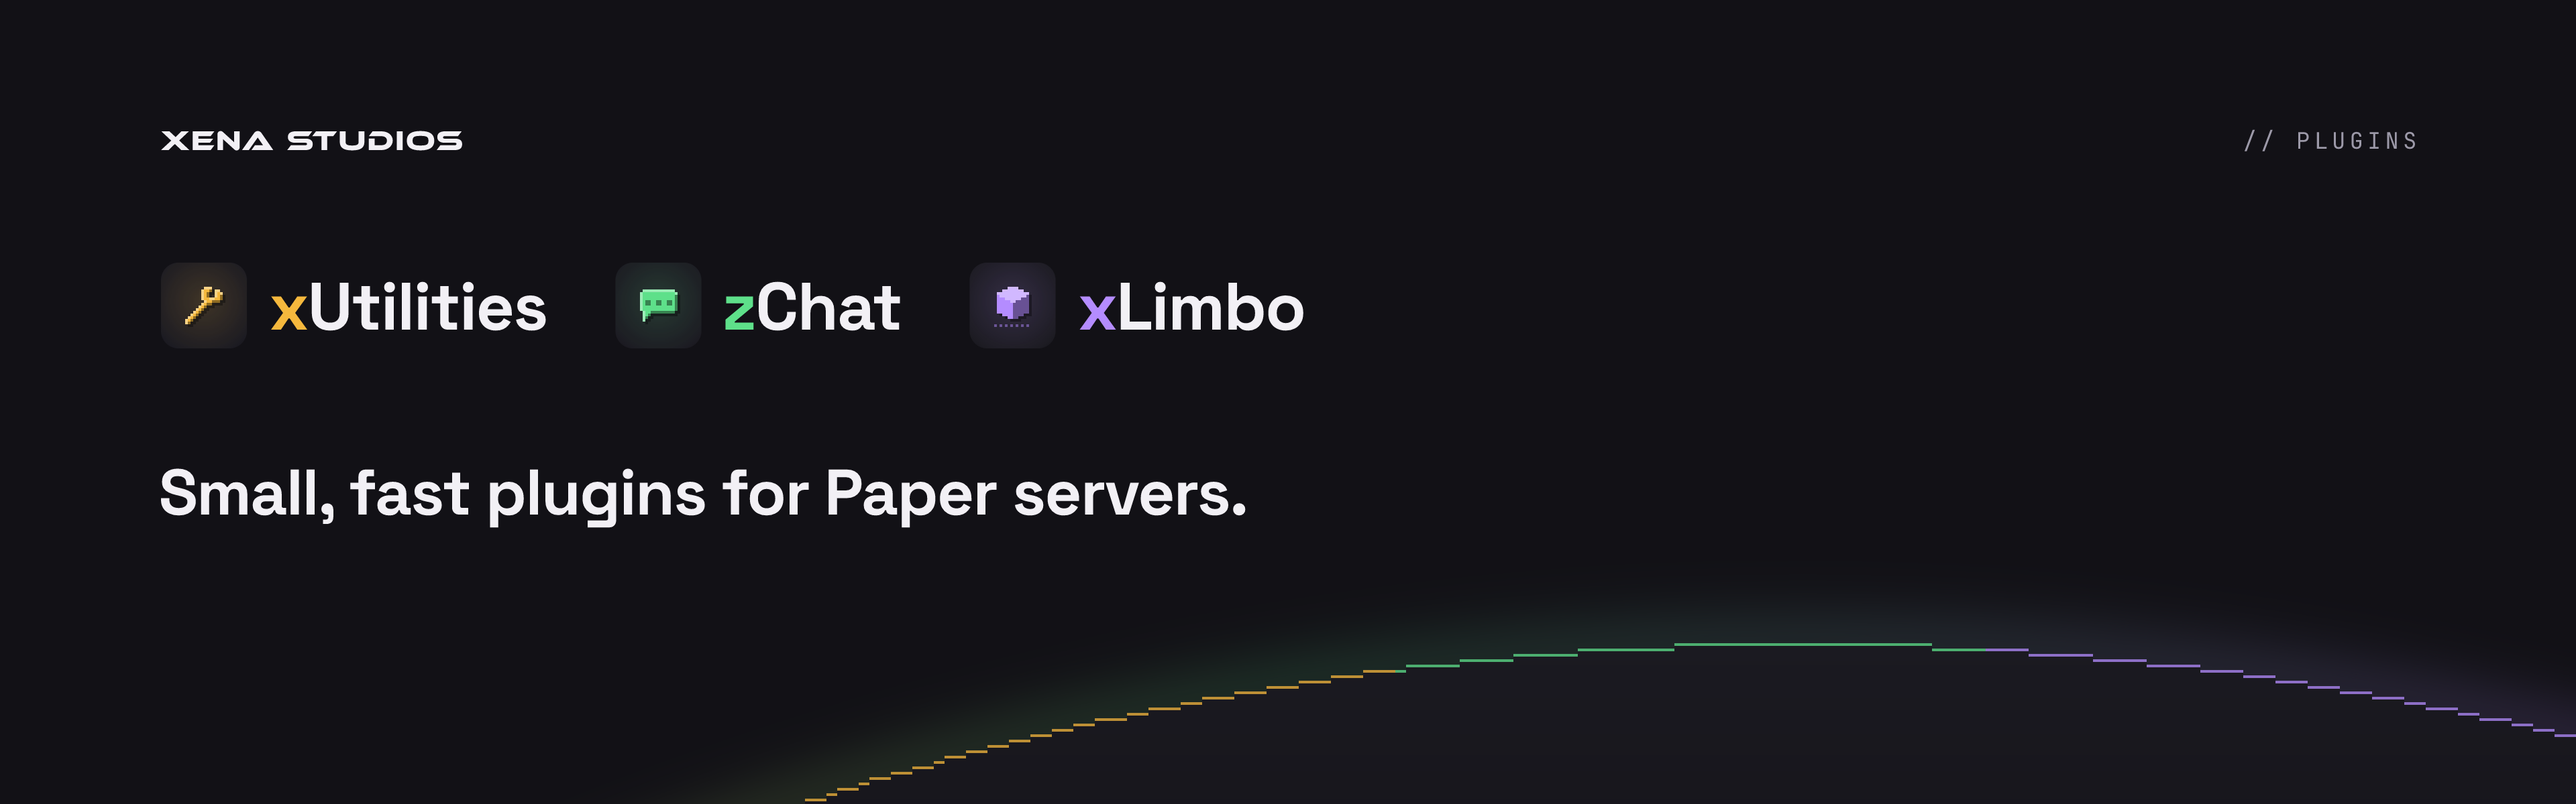
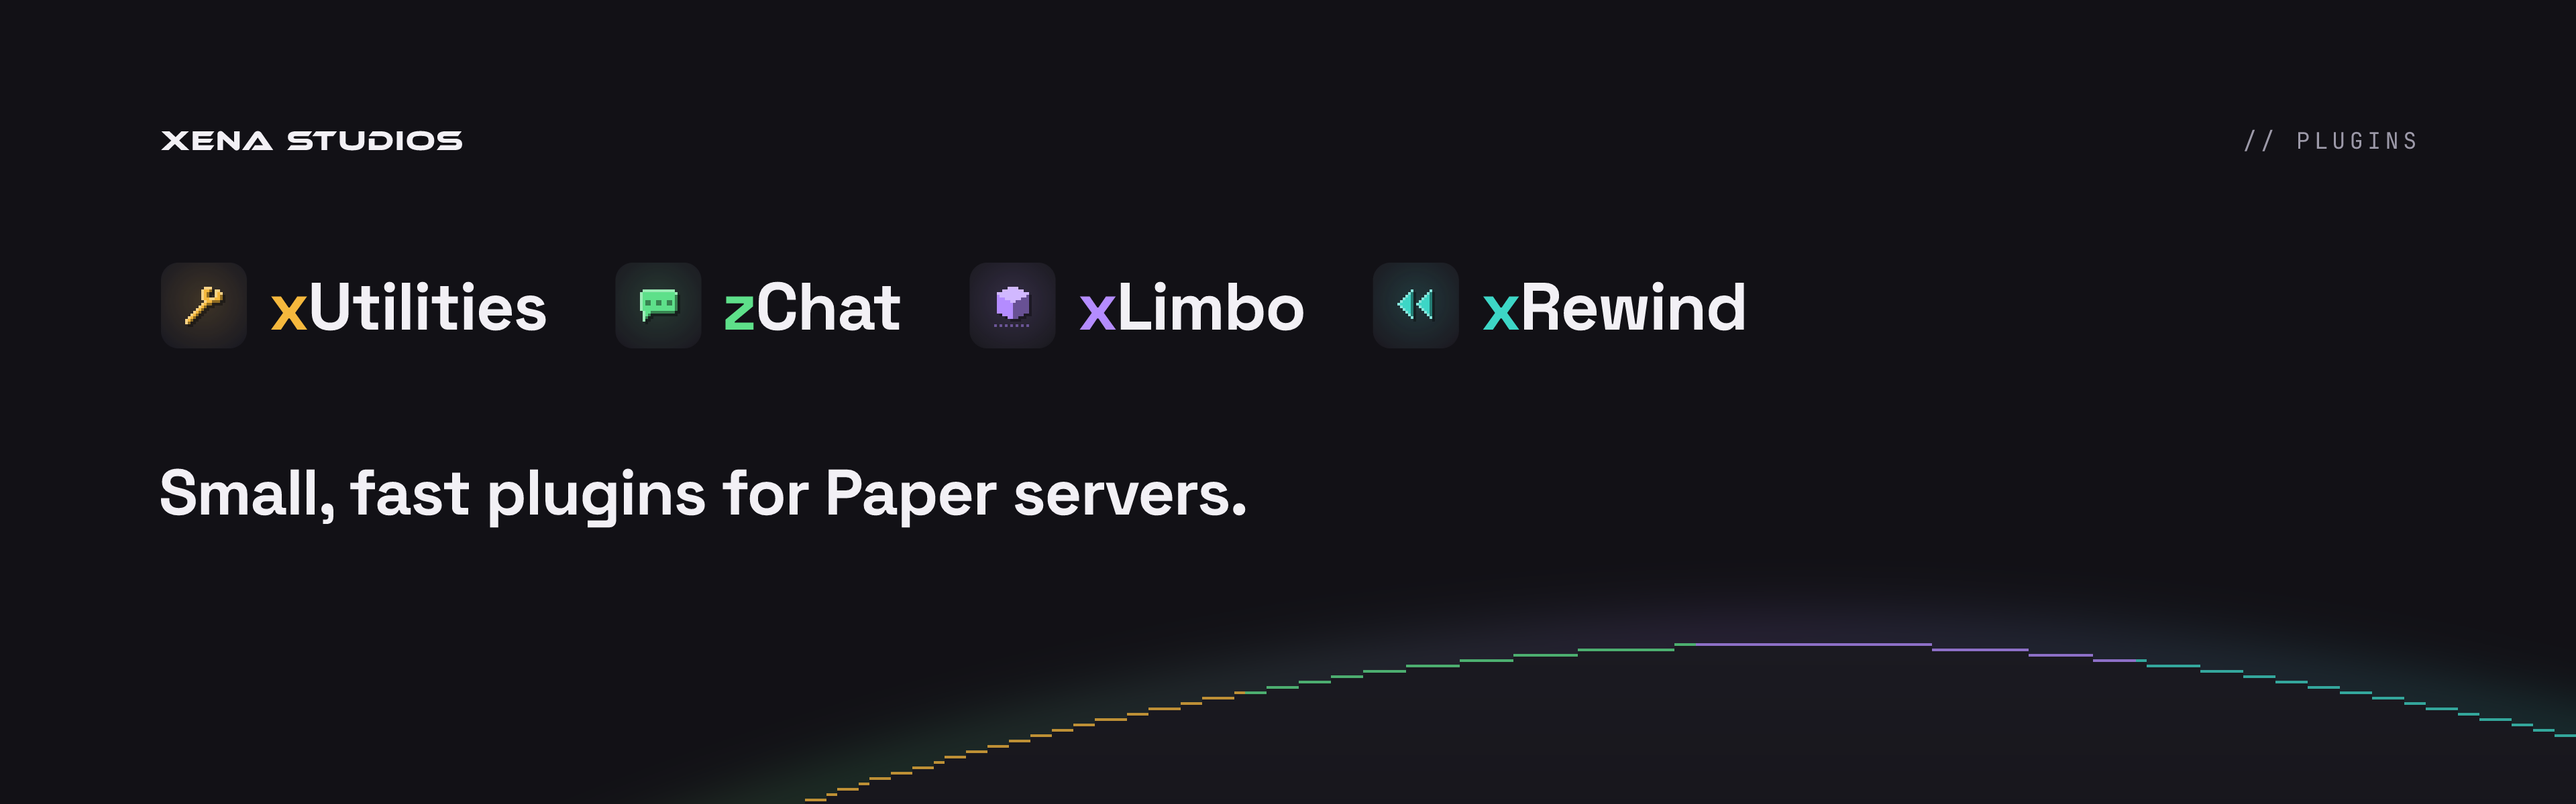
release: xRewind 1.0.0

diff --git a/docs/src/styles/theme.css b/docs/src/styles/theme.css
@@ -282,6 +282,7 @@ starlight-toc a[aria-current="true"] {
 .plugin-list a[href="/xutilities/"]:hover { color: #F5B83D; }
 .plugin-list a[href="/zchat/"]:hover { color: #5EE08A; }
 .plugin-list a[href="/xlimbo/"]:hover { color: #B48CFF; }
+.plugin-list a[href="/xrewind/"]:hover { color: #3DD6C6; }
 
 .more-label {
   margin-top: 3rem !important;

diff --git a/xrewind/CHANGELOG.md b/xrewind/CHANGELOG.md
@@ -1,5 +1,33 @@
 # xRewind changelog
 
-## Unreleased
+## 1.0.0
 
-Not released yet. 1.0 will log block changes, containers, kills and more, look them up, and roll them back, with every feature free.
+The first release. Drop the jar in and start the server: it logs to SQLite in its own folder, with nothing to set up. Coming from CoreProtect? Run `/xr import coreprotect` to bring your history.
+
+### Logging
+
+- Blocks placed and broken, with what they held (a chest's items, a sign's text), and the torches, signs and rails that fall off with them.
+- Explosions (TNT is put down to whoever lit it), fire, buckets and liquids that destroy something, pistons, and mobs that change blocks (endermen, withers, falling sand).
+- Items put in and taken out of containers, kills, sign text, and joins and quits.
+- Off unless you turn them on: hopper transfers, door and lever clicks, leaf decay, chat and commands.
+- Each kind is a switch under `log`, and one that's off isn't even listened for. `excluded-worlds` leaves worlds out.
+- Logging costs about 40 nanoseconds per change on the game's threads: everything else happens on one background thread, in batches.
+
+### Looking up
+
+- `/xr inspect`: click a block to see its history, or place one to see what was there.
+- `/xr lookup` with CoreProtect's parameters: `u:` `t:` `r:` `a:` `i:` `e:` `w:` and `#count`. `/xr page` and `/xr near`.
+
+### Rolling back
+
+- `/xr rollback` and `/xr restore` with the same parameters, `#preview` to see the result first, and `/xr undo`.
+- Blocks come back with what they held, and items taken from containers are put back.
+- Blocks are set a few milliseconds per tick, chunk by chunk (region by region on Folia), so even a big rollback doesn't freeze the server.
+- A rollback needs `t:`, covers 10 blocks around you without `r:`, and past 100 blocks needs `xrewind.rollback.global`.
+
+### Keeping it tidy
+
+- Automatic purges, free: history older than 30 days is deleted once a day (`purge.keep-days`; 0 keeps everything), and `/xr purge`.
+- SQLite by default, MySQL or MariaDB for networks. No driver is bundled: Paper and Folia include them.
+- `/xr import coreprotect` reads CoreProtect's database (SQLite or MySQL) and imports blocks, kills, containers, sessions, signs, chat and commands.
+- `/xr status` shows where the history goes and whether logging is keeping up.

diff --git a/README.md b/README.md
@@ -1,4 +1,4 @@
-![Xena Studios plugins. The xUtilities, zChat and xLimbo icons and names over a stepped horizon in their three accents, with "Small, fast plugins for Paper servers."](.github/assets/banner.png)
+![Xena Studios plugins. The xUtilities, zChat, xLimbo and xRewind icons and names over a stepped horizon in their four accents, with "Small, fast plugins for Paper servers."](.github/assets/banner.png)
 
 **Small, fast plugins for Paper servers.**
 
@@ -9,8 +9,9 @@ By [Xena Studios](https://xenastudios.co). Each does one job, costs next to noth
 | <img src="docs/src/assets/plugins/xutilities.svg" width="40" alt=""> | **[xUtilities](xutilities)** | Every command you need. None you don't. | [Docs](https://docs.xenastudios.co/xutilities/) · [Modrinth](https://modrinth.com/plugin/xutilities) |
 | <img src="docs/src/assets/plugins/zchat.svg" width="40" alt=""> | **[zChat](zchat)** | Format your chat. Keep it clean. | [Docs](https://docs.xenastudios.co/zchat/) · [Modrinth](https://modrinth.com/plugin/zchat) |
 | <img src="docs/src/assets/plugins/xlimbo.svg" width="40" alt=""> | **[xLimbo](xlimbo)** | Never drop a player again. | [Docs](https://docs.xenastudios.co/xlimbo/) · [Modrinth](https://modrinth.com/plugin/xlimbo) |
+| <img src="docs/src/assets/plugins/xrewind.svg" width="40" alt=""> | **[xRewind](xrewind)** | Every change, logged. Any of it, undone. | [Docs](https://docs.xenastudios.co/xrewind/) · [Modrinth](https://modrinth.com/plugin/xrewind) |
 
-All three need Paper 1.21.11+ and Java 21+. xUtilities and zChat also run on Folia. Get them on [Modrinth](https://modrinth.com/organization/xena-studios); the [docs](https://docs.xenastudios.co) cover setup, commands, permissions and config.
+All four need Paper 1.21.11+ and Java 21+. xUtilities, zChat and xRewind also run on Folia. Get them on [Modrinth](https://modrinth.com/organization/xena-studios); the [docs](https://docs.xenastudios.co) cover setup, commands, permissions and config.
 
 ## Building
 

diff --git a/xrewind/README.md b/xrewind/README.md
@@ -2,12 +2,14 @@
 
 **Every change, logged. Any of it, undone.**
 
-xRewind is a block logger with rollback for Paper and Folia: who placed, broke or took what, where and when, and a way to undo it. **It's being built and isn't released yet;** the plan is [#20](https://github.com/xena-studios/plugins/issues/20).
+xRewind is a block logger with rollback for Paper and Folia: who placed, broke or took what, where and when, and a way to undo it.
 
 - **Every feature free.** No early-access builds, nothing behind a Patreon.
 - **New Minecraft versions the same week.** Paper's API only, no server internals, so an update rarely breaks it.
 - **You won't feel it running.** Nothing touches the database on a game thread: changes are queued as a few numbers and written in batches.
-- **Easy to switch to.** CoreProtect's command syntax, and its history imported.
+- **Easy to switch to.** CoreProtect's command syntax, and its history imported with `/xr import coreprotect`.
+
+**[Download on Modrinth](https://modrinth.com/plugin/xrewind)** · [Docs](https://docs.xenastudios.co/xrewind/) · [Commands](https://docs.xenastudios.co/xrewind/commands/) · [Switching from CoreProtect](https://docs.xenastudios.co/xrewind/switching/) · [Changelog](CHANGELOG.md)
 
 Needs Paper 1.21.11 or newer (or Purpur, or Folia) and Java 21 or newer. Uses SQLite out of the box, or MySQL/MariaDB.
 
@@ -26,5 +28,8 @@ src/main/java/co/xenastudios/xrewind/
   storage/         the database: its tables, and opening it off the server's threads
   listen/          the listeners, one module per kind of change, each on only when it's logged
   log/             the queue listeners hand changes to, and the one thread that writes them
+  query/           lookups, the inspector, and CoreProtect-style parameters
+  rollback/        working out a rollback, and applying it a few milliseconds per tick
+  maintain/        purges, and the CoreProtect import
   command/         /xrewind's subcommands
 ```

diff --git a/docs/src/content/docs/start/privacy.md b/docs/src/content/docs/start/privacy.md
@@ -22,7 +22,9 @@ That's the plugin and its version, the platform (`paper`, or `folia` on Folia) a
 
 ## bStats
 
-xUtilities 2, zChat 3 and xLimbo 2 send **[bStats](https://bstats.org)**, anonymous usage statistics shared by thousands of plugins, on by default: a random server ID, player count, server software and version, Minecraft, Java and plugin versions, operating system, CPU cores, online mode, and country (worked out by bStats from the IP address, which bStats doesn't store). Turn it off for every plugin at once in `plugins/bStats/config.yml`. (zChat 1.x sent bStats too; zChat 2 and xLimbo 1 didn't.) The numbers are public: [xUtilities](https://bstats.org/plugin/bukkit/XenaUtilities/34866), [zChat](https://bstats.org/plugin/bukkit/zChat/21533) and [xLimbo](https://bstats.org/plugin/bukkit/xLimbo/34867) on bStats.
+xUtilities 2, zChat 3, xLimbo 2 and xRewind send **[bStats](https://bstats.org)**, anonymous usage statistics shared by thousands of plugins, on by default: a random server ID, player count, server software and version, Minecraft, Java and plugin versions, operating system, CPU cores, online mode, and country (worked out by bStats from the IP address, which bStats doesn't store). Turn it off for every plugin at once in `plugins/bStats/config.yml`. (zChat 1.x sent bStats too; zChat 2 and xLimbo 1 didn't.) The numbers are public: [xUtilities](https://bstats.org/plugin/bukkit/XenaUtilities/34866), [zChat](https://bstats.org/plugin/bukkit/zChat/21533), [xLimbo](https://bstats.org/plugin/bukkit/xLimbo/34867) and [xRewind](https://bstats.org/plugin/bukkit/xRewind/35410) on bStats.
+
+xRewind keeps what it logs (who changed which blocks, and when, where they joined and quit) in your own database, and nothing of it leaves your server. Chat and command logging are off unless you turn them on, and history older than 30 days is deleted unless you keep it longer (`purge.keep-days`).
 
 ## Inside your network
 

diff --git a/xrewind/modrinth.md b/xrewind/modrinth.md
@@ -4,9 +4,7 @@
 
 Someone griefed spawn. Someone emptied the shared chest. Someone says they didn't. **xRewind shows you who placed, broke or took what, where and when, and puts it back.**
 
-> **Being built.** xRewind isn't released yet. Follow it on [GitHub](https://github.com/xena-studios/plugins/issues/20) and the first release will land here.
-
-**[Read the docs](https://docs.xenastudios.co/xrewind/)** · **[The plan](https://github.com/xena-studios/plugins/issues/20)** · **[Source code](https://github.com/xena-studios/plugins)**
+**[Read the docs](https://docs.xenastudios.co/xrewind/)** · **[Switching from CoreProtect](https://docs.xenastudios.co/xrewind/switching/)** · **[Report a bug](https://github.com/xena-studios/plugins/issues/new/choose)**
 
 ---
 
@@ -26,7 +24,11 @@ Blocks placed and broken, and what falls off with them · explosions, traced to 
 
 ## Commands
 
-`/xr inspect` · `/xr lookup` · `/xr rollback` · `/xr restore` · `/xr undo` · `/xr purge`, with CoreProtect's parameters: `u:` `t:` `r:` `a:` `i:` `e:` and `#preview`.
+`/xr inspect` · `/xr lookup` · `/xr rollback` · `/xr restore` · `/xr undo` · `/xr purge` · `/xr import coreprotect`, with CoreProtect's parameters: `u:` `t:` `r:` `a:` `i:` `e:` and `#preview`.
+
+## Coming from CoreProtect?
+
+Install xRewind next to it, run `/xr import coreprotect`, and your history comes across: blocks, kills, containers, sessions, signs, chat and commands. Then remove CoreProtect. The commands are the ones you know, as `/xr`.
 
 ---
 

diff --git a/docs/src/content/docs/xrewind/index.md b/docs/src/content/docs/xrewind/index.md
@@ -1,21 +1,14 @@
 ---
 title: xRewind
-description: Every change, logged. Any of it, undone. A block logger with rollback for Paper and Folia, being built.
+description: Every change, logged. Any of it, undone. A block logger with rollback for Paper and Folia.
 sidebar:
   label: Overview
   order: 1
-  badge:
-    text: Soon
-    variant: note
 ---
 
 **Every change, logged. Any of it, undone.**
 
 xRewind is a block logger with rollback for Paper and Folia: who placed, broke or took what, where and when, and a way to undo it.
-
-:::note[Being built]
-xRewind isn't released yet. This page describes what 1.0 will do; follow along in [the plan](https://github.com/xena-studios/plugins/issues/20).
-:::
 
 - **Every feature free.** No early-access builds and nothing behind a Patreon, automatic purges included (30 days by default).
 - **New Minecraft versions the same week.** It uses only Paper's API, never the server's internals, so an update rarely breaks it.
@@ -39,4 +32,4 @@ A rollback brings back what a broken block held: a chest's items, a sign's text.
 
 SQLite out of the box, in one file in the plugin's folder, or MySQL/MariaDB for networks. No driver is bundled: Paper and Folia already ship them. See [Configuration](/xrewind/configuration/).
 
-Needs Paper 1.21.11 or newer (or Purpur, or Folia) and Java 21 or newer.
+Current version: **1.0.0**, for Paper 1.21.11 or newer (or Purpur, or Folia) and Java 21 or newer. [Download on Modrinth](https://modrinth.com/plugin/xrewind).

diff --git a/docs/src/content/docs/start/requirements.md b/docs/src/content/docs/start/requirements.md
@@ -12,9 +12,10 @@ Every plugin runs on **Paper** and forks of it such as **Purpur**, with **Java 2
 | [xUtilities](/xutilities/) | 1.21.11 or newer | Yes | 21 or newer |
 | [zChat](/zchat/) | 1.21.11 or newer | Yes | 21 or newer |
 | [xLimbo](/xlimbo/) | 1.21.11 or newer | No | 21 or newer |
+| [xRewind](/xrewind/) | 1.21.11 or newer | Yes | 21 or newer |
 
 Spigot and CraftBukkit aren't supported: the plugins rely on APIs only Paper has.
 
-**Folia** runs the same xUtilities and zChat jars as Paper. There's nothing to configure: they make every change to a player on the region that owns that player. xLimbo doesn't run on Folia: Folia can't create worlds, and a fallback server has nothing for Folia to spread across threads.
+**Folia** runs the same xUtilities, zChat and xRewind jars as Paper. There's nothing to configure: they make every change to a player on the region that owns that player. xLimbo doesn't run on Folia: Folia can't create worlds, and a fallback server has nothing for Folia to spread across threads.
 
 **Optional:** zChat fills in [PlaceholderAPI](https://modrinth.com/plugin/placeholderapi) placeholders in chat formats when PlaceholderAPI is installed. Without it, they show nothing, and the console says so.

diff --git a/CONTRIBUTING.md b/CONTRIBUTING.md
@@ -1,6 +1,6 @@
 # Contributing
 
-Thanks for helping with xUtilities, zChat and xLimbo. Everyone follows the [code of conduct](https://github.com/xena-studios/.github/blob/main/CODE_OF_CONDUCT.md). Security problems go to [SECURITY.md](SECURITY.md), never a public issue.
+Thanks for helping with xUtilities, zChat, xLimbo and xRewind. Everyone follows the [code of conduct](https://github.com/xena-studios/.github/blob/main/CODE_OF_CONDUCT.md). Security problems go to [SECURITY.md](SECURITY.md), never a public issue.
 
 ## Issues
 
@@ -28,8 +28,7 @@ scripts/boot-test.sh --project paper --version 1.21.11 \
 | `core/` | Code every plugin shares, shaded into each jar |
 | `build-logic/` | The `xena.plugin` Gradle convention every plugin applies |
 | `sandbox/` | A plugin that's never released, used to test the core on real servers in CI |
-| `xutilities/`, `zchat/`, `xlimbo/` | The plugins, each with its own README |
-| `xrewind/` | A block logger with rollback, being built ([#20](https://github.com/xena-studios/plugins/issues/20)) |
+| `xutilities/`, `zchat/`, `xlimbo/`, `xrewind/` | The plugins, each with its own README |
 | `scripts/` | `boot-test.sh`, `changelog.sh`, `new-minecraft.sh` |
 | `docs/` | docs.xenastudios.co |
 

diff --git a/docs/src/content/docs/start/installing.md b/docs/src/content/docs/start/installing.md
@@ -5,10 +5,10 @@ sidebar:
   order: 2
 ---
 
-1. Download the plugin from its Modrinth page: [xUtilities](https://modrinth.com/plugin/xutilities), [zChat](https://modrinth.com/plugin/zchat) or [xLimbo](https://modrinth.com/plugin/xlimbo).
+1. Download the plugin from its Modrinth page: [xUtilities](https://modrinth.com/plugin/xutilities), [zChat](https://modrinth.com/plugin/zchat), [xLimbo](https://modrinth.com/plugin/xlimbo) or [xRewind](https://modrinth.com/plugin/xrewind).
 2. Put the jar in your server's `plugins/` folder.
 3. Start the server once. The plugin writes its default `config.yml` to `plugins/<plugin>/`.
-4. Edit the config, then apply it with the plugin's reload command (`/xutilities reload`, `/zchat reload`, `/xlimbo reload`).
+4. Edit the config, then apply it with the plugin's reload command (`/xutilities reload`, `/zchat reload`, `/xlimbo reload`, `/xrewind reload`).
 5. Give your ranks the permissions they need: see [Permissions](/start/permissions/).
 
 ## Reload or restart?

diff --git a/docs/src/content/docs/start/updating.md b/docs/src/content/docs/start/updating.md
@@ -12,6 +12,6 @@ Your `config.yml` is kept. Each config has a `config-version` key, which the plu
 
 When an update changes the config's format, as xUtilities 2, zChat 3 and xLimbo 2 do, the plugin first copies your old file to `config.yml.bak-v<old version>`, such as `config.yml.bak-v1`, so you can always go back.
 
-Every plugin tells you when an update is out: in the console, and to players with its admin permission (`xutilities.admin`, `zchat.admin`, `xlimbo.admin`) when they join. `/xutilities info`, `/zchat info` and `/xlimbo info` show it too.
+Every plugin tells you when an update is out: in the console, and to players with its admin permission (`xutilities.admin`, `zchat.admin`, `xlimbo.admin`, `xrewind.admin`) when they join. `/xutilities info`, `/zchat info`, `/xlimbo info` and `/xrewind info` show it too.
 
 After updating, read the version's changelog on Modrinth for anything new you might want to turn on.

diff --git a/docs/src/content/docs/start/support.md b/docs/src/content/docs/start/support.md
@@ -5,7 +5,7 @@ sidebar:
   order: 7
 ---
 
-- **Bugs and feature requests:** open an issue on [GitHub](https://github.com/xena-studios/plugins/issues). Include the plugin and its version (from `/xutilities info`, `/zchat info` or `/xlimbo info`), your server software and version, and any console errors.
+- **Bugs and feature requests:** open an issue on [GitHub](https://github.com/xena-studios/plugins/issues). Include the plugin and its version (from `/xutilities info`, `/zchat info`, `/xlimbo info` or `/xrewind info`), your server software and version, and any console errors.
 - **Anything else:** email [contact@xenastudios.co](mailto:contact@xenastudios.co).
 
 Found a mistake in these docs? Every page has an **Edit page** link at the bottom.
